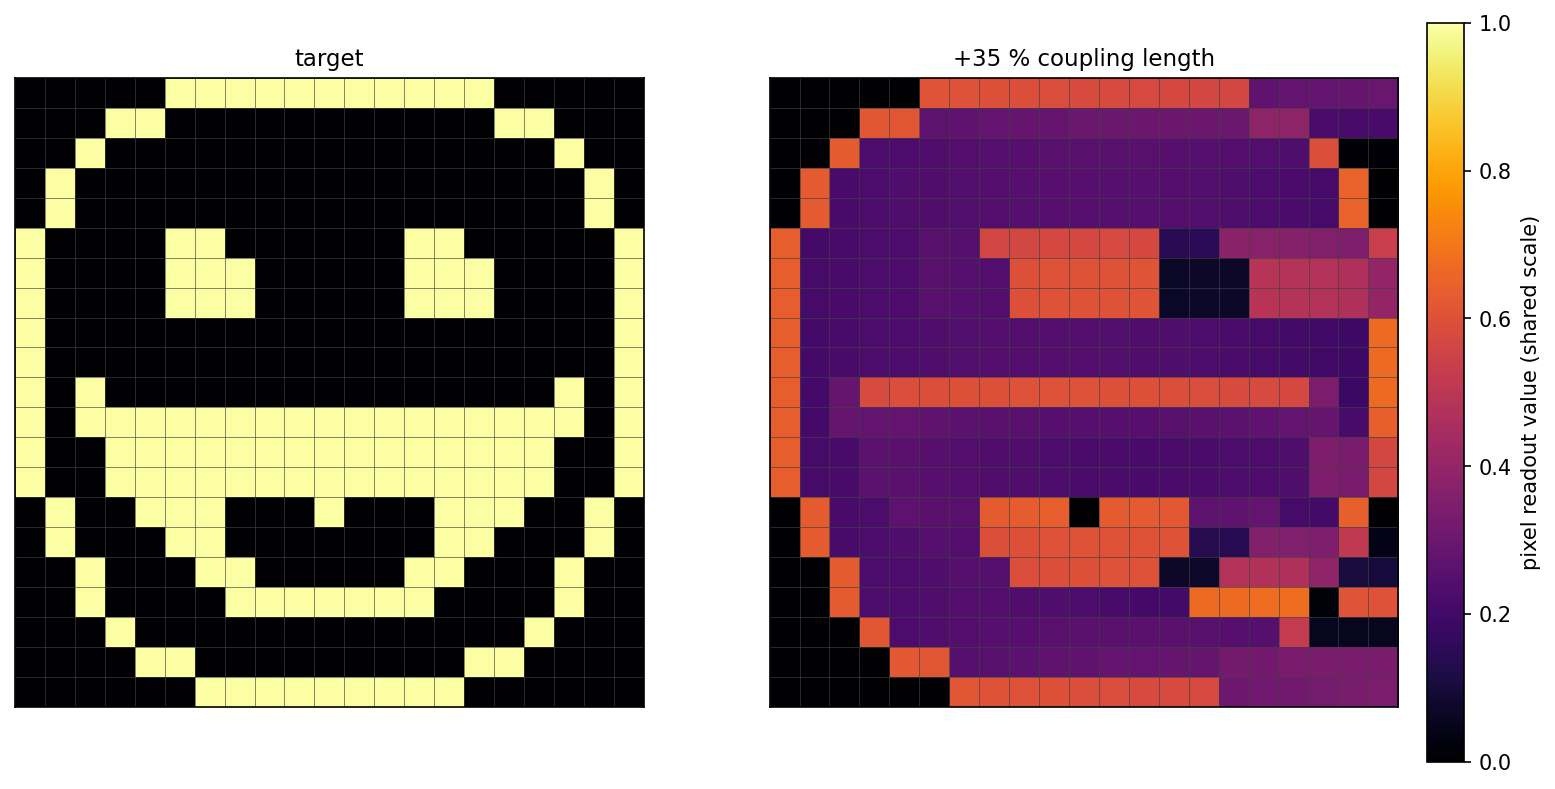
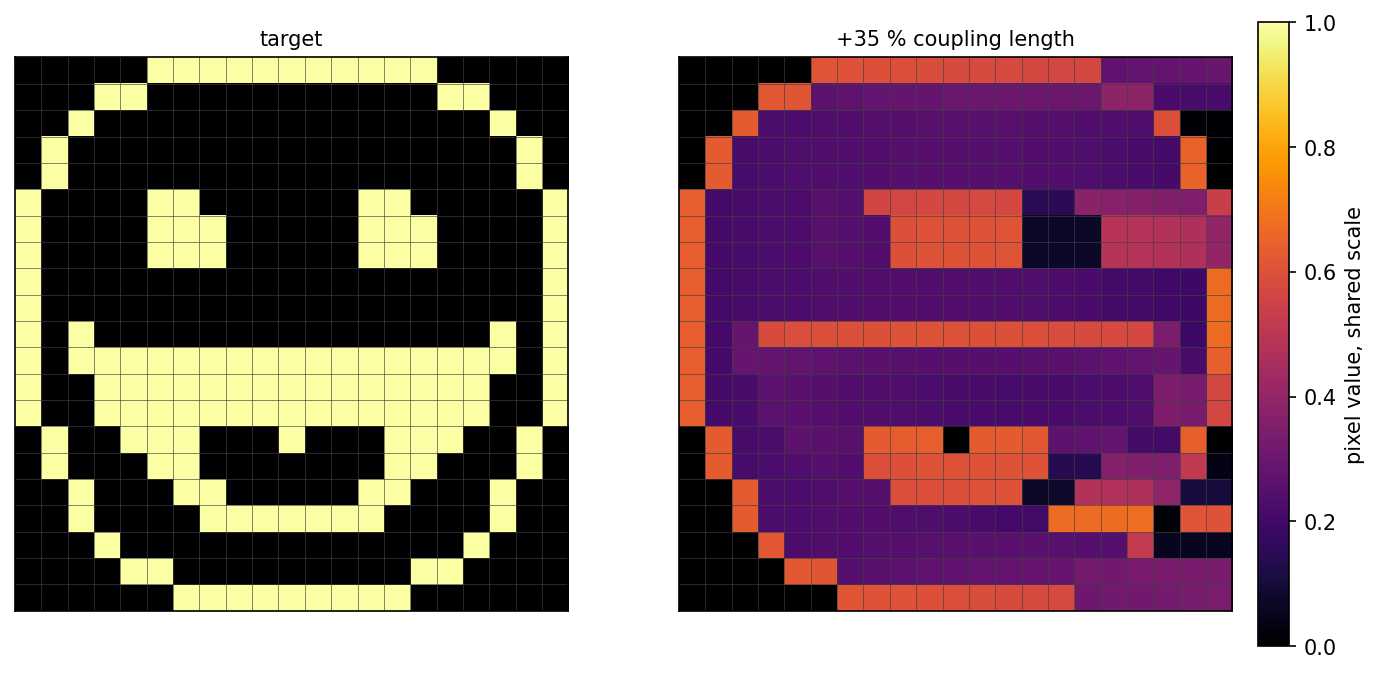
Keep four figures, all drawn from shipped data; state the rule as a rule of thumb

Changed region(s): [[0.4674, 0.0, 0.9971, 0.9985], [0.0, 0.0312, 0.4362, 0.9361]]

diff --git a/make_figure.py b/make_figure.py
@@ -1,16 +1,17 @@
-# -*- coding: utf-8 -*-
-"""fig_pixels_pair.py -- pixel-map pair: IDEAL target vs a simulated degraded tier.
+"""make_figure.py -- target against measurement, on one colour scale.
 
-Figure 4 as the user wants it (2026-11-22): the PIXEL map (21 x 21 readout values),
-not the near field. The left panel is the target pattern drawn directly from the
-artwork (1 = bright, 0 = dark) because we define the calibrated design as the
-reference; the right panel is the simulation of a large deviation. Both panels share
-ONE colour scale, so the loss of contrast is visible rather than normalised away.
+Left: the image that was encoded. Right: the pixel values that come back out of
+the simulation. Both panels share one colour scale, so a loss of contrast shows
+up as a loss of contrast instead of being normalised away.
 
-Usage:  python make_figure.py smile_e350
-Output: figures/fig4_degraded.png
+Usage
+    python make_figure.py dino --image images/example.txt --out figures/fig3_readout.png
+    python make_figure.py smile_e350 --image images/smile.txt --out figures/fig4_degraded.png
+
+Numbers such as the count of wrong pixels belong in the caption, not in the
+panel title.
 """
-import json
+import argparse
 import sys
 from pathlib import Path
 
@@ -18,77 +19,66 @@ import numpy as np
 import matplotlib
 matplotlib.use("Agg")
 import matplotlib.pyplot as plt
+from matplotlib.colors import Normalize
 
 HERE = Path(__file__).resolve().parent
+sys.path.insert(0, str(HERE))
+import read_image as RI                                       # noqa: E402
+
 DATA = HERE / "data"
 FIG = HERE / "figures"
-THRESHOLD = json.loads((HERE / "parameters.json").read_text(encoding="utf-8"))["readout"]["threshold"]
-
-
-def art_rows(prefix):
-    p = HERE / "images" / (prefix + ".txt")
-    if not p.exists():
-        p = HERE / "images" / (prefix.split("_")[0] + ".txt")
-    rows = []
-    for line in p.read_text(encoding="utf-8").splitlines():
-        t = "".join(c for c in line.replace(".", "0").replace("#", "1") if c in "01")
-        if t:
-            rows.append(t)
-    return rows
-
-
-def measured(prefix, rows):
-    z = np.load(DATA / ("readout_%s.npz" % prefix), allow_pickle=True)
-    d = {}
-    for k in z.files:
-        if k.startswith("v_"):
-            d[int(k[2:])] = (z[k], str(z["p_" + k[2:]].tolist()))
-    pat_of = {r: p for r, (v, p) in d.items()}
-    M = np.full((len(rows), len(rows[0])), np.nan)
-    for i, rw in enumerate(rows):
-        src = i if i in d else next((r for r, p in pat_of.items()
-                                     if p == str(list(rw))), None)
-        if src is not None:
-            M[i, :len(d[src][0])] = d[src][0]
-    return M
 
 
 def label(prefix):
+    """What the run was, in a few words."""
     if "_e" in prefix:
-        tag = prefix.split("_e")[1]
-        return "+%g %% coupling length" % (int(tag) / 10.0)
-    return "calibrated design"
+        return "+%g %% coupling length" % (int(prefix.split("_e")[1]) / 10.0)
+    return "measured"
 
 
-def main(argv):
-    prefix = argv[0] if argv else "smile_e350"
-    rows = art_rows(prefix)
-    ideal = np.array([[1.0 if c == "1" else 0.0 for c in r] for r in rows])
-    M = measured(prefix, rows)
+def main(argv=None):
+    ap = argparse.ArgumentParser(description=__doc__)
+    ap.add_argument("prefix", nargs="?", default="smile_e350")
+    ap.add_argument("--image", default=None)
+    ap.add_argument("--out", default=None)
+    args = ap.parse_args(argv)
 
-    ok = ~np.isnan(M)
-    thr = THRESHOLD                     # one fixed threshold, set on the calibrated design
-    wrong = int(np.sum(((M > thr) != ideal.astype(bool)) & ok))
-    contrast = (np.nanpercentile(M, 80) / max(np.nanpercentile(M, 20), 1e-12))
+    image = Path(args.image) if args.image else None
+    if image is None:
+        stem = args.prefix.split("_")[0]
+        image = HERE / "images" / (stem + ".txt")
+        if not image.exists():
+            image = HERE / "images" / "example.txt"
 
-    fig, axes = plt.subplots(1, 2, figsize=(12.5, 6.4))
-    for ax, D, ttl in ((axes[0], ideal, "target"),
-                       (axes[1], M, "%s" % label(prefix))):
-        im = ax.imshow(D, cmap="inferno", vmin=0.0, vmax=1.0,
-                       interpolation="nearest", aspect="equal")
-        ax.set_xticks([]); ax.set_yticks([])
-        ax.set_title(ttl, fontsize=11)
-        for k in range(len(rows) + 1):
+    rows = RI.load_image(image)
+    ideal = RI.truth_matrix(rows)
+    values = RI.assemble(DATA / ("readout_%s.npz" % args.prefix), rows)
+    res = RI.report(values, ideal)
+
+    fig, axes = plt.subplots(1, 2, figsize=(11.0, 5.4))
+    for ax, data, title in ((axes[0], ideal.astype(float), "target"),
+                            (axes[1], values, label(args.prefix))):
+        ax.imshow(data, cmap="inferno", vmin=0.0, vmax=1.0,
+                  interpolation="nearest", aspect="equal")
+        ax.set_xticks([])
+        ax.set_yticks([])
+        ax.set_title(title, fontsize=10)
+        for k in range(1, ideal.shape[1]):
             ax.axhline(k - 0.5, color="0.25", lw=0.3)
             ax.axvline(k - 0.5, color="0.25", lw=0.3)
-    fig.colorbar(im, ax=axes.tolist(), fraction=0.028, pad=0.02,
-                 label="pixel readout value (shared scale)")
-    plt.savefig(FIG / "fig4_degraded.png", dpi=150, bbox_inches="tight")
-    print("written: figures/fig4_degraded.png  (wrong bits=%d of %d, contrast=%.1fx)"
-          % (wrong, int(ok.sum()), contrast))
+    fig.colorbar(plt.cm.ScalarMappable(norm=Normalize(0.0, 1.0), cmap="inferno"),
+                 ax=axes.tolist(), fraction=0.028, pad=0.02,
+                 label="pixel value, shared scale")
+
+    out = Path(args.out) if args.out else FIG / ("fig_%s.png" % args.prefix)
+    out.parent.mkdir(parents=True, exist_ok=True)
+    plt.savefig(out, dpi=150, bbox_inches="tight")
+    print("written: %s" % out)
+    print("  %d of %d pixels correct, dim bright %.3f, bright dark %.3f, contrast %.1f"
+          % (res["correct"], res["pixels"], res["dim_bright"] or 0.0,
+             res["bright_dark"] or 0.0, res["contrast"]))
     return 0
 
 
 if __name__ == "__main__":
-    raise SystemExit(main(sys.argv[1:]))
-
+    sys.exit(main())

diff --git a/README.md b/README.md
@@ -50,16 +50,24 @@ bright pixel is 0.568 and the brightest dark pixel is 0.166, both in units of
 the input power. One row leaks into its neighbour by 21.9 dB, and into rows
 three or more away by 28.2 dB.
 
-For the 20 by 20 image, the near field looks like this:
+![Target and measured pixel values](figures/fig3_readout.png)
 
-![Near field of the encoded image](figures/fig2_readout.png)
+*Left: the image that was encoded. Right: the pixel values that come back out of
+the simulation, for the same 20 by 20 pixels. The two panels share one colour
+scale, so the count of correct pixels can be checked by eye without the contrast
+being normalised away. The measured values sit below 1.0 because a bright pixel
+in the target is drawn as 1.0 while a measured bright pixel is 0.6 to 0.7 of the
+input power.*
 
-*Bright and dark pixels on the straight waveguide, one row per line. The image
-is stretched vertically so that 20 rows fit on a page; the physical size is 420
-by 48 micrometres.*
+The full near field, both waveguides, is `figures/fig2_pattern.png`; the layout
+of the same image is `figures/fig0_geometry.png`.
 
-The full near field, with both waveguides, is in `figures/fig2_pattern.png`.
-The layout of the same image is `figures/fig0_geometry.png`.
+The design rule we state, and do not claim to have validated: the critical
+dimension may be off by about 23.3 divided by the number of exchanges in the row,
+in nanometres, before that row starts to read wrong. It is a rule of thumb taken
+from two calibration runs, not a prediction. The 35 % run is far outside its
+range; it is there as a reference for what failure looks like, not as a
+specification.
 
 ## Reproduce it
 
@@ -85,7 +93,10 @@ An image is a text file, one line per row, `#` for a bright pixel and `.` for a
 dark one. `images/example.txt` is the 20 by 20 image used throughout;
 `images/smile.txt` is the 21 by 21 one.
 
-![One pixel: two waveguides and one exchange](figures/fig1_pixel.png)
+Figures 3 and 4 are drawn from the shipped data by:
+
+    python make_figure.py dino --image images/example.txt --out figures/fig3_readout.png
+    python make_figure.py smile_e350 --image images/smile.txt --out figures/fig4_degraded.png
 
 ## Simulate a row
 
@@ -110,7 +121,7 @@ number. The window and the threshold are in `parameters.json`.
     plot_geometry.py     polygons -> the layout figure
     simulate_row.py      polygons -> one row of a wave simulation
     read_image.py        simulated data -> pixel values
-    make_figure.py       Figure 4 from the shipped data
+    make_figure.py       target against measurement, figures 3 and 4
     reproduce.py         every quoted number, from data/
     parameters.json      every dimension, in one place
     images/              two images
